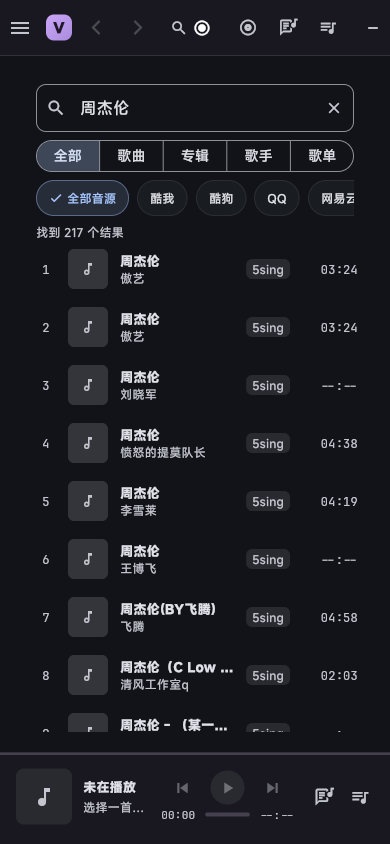
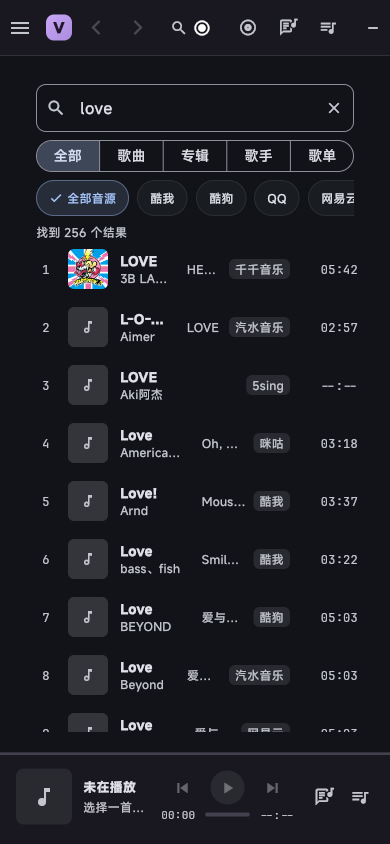
feat(redesign): phase 3 QA 复查轮收口：P0/P1 复查双关闭（四态 6 断言在位，定向 10 文件 79 项全绿双实跑 QA 00:10/报告员 00:14 exit 0、4 文件 24 项双跑逐名核对）+ release 内容等价重建（bundle 03:52:19）+ 曲库/发现/专辑重截 3 张逐张目检通过（专辑真实错误态+重试实拍 §9 符合）+ §17/04 矩阵同步（残留 minor 4 条，Android/浅色/手操/golden 维持未验证）

diff --git a/flutter/test/discover_page_test.dart b/flutter/test/discover_page_test.dart
@@ -3,13 +3,15 @@
 /// - 音源筛选器（全部/单源）切换后 Tab 可用集合变化；
 /// - 「全部音源」聚合：多音源分组展示，卡片带来源标识；
 /// - 不支持的数据类型显示解释文案（不伪造数据）；
-/// - 排行榜 Tab 渲染真实榜单行。
+/// - 排行榜 Tab 渲染真实榜单行；
+/// - 精选歌单载入骨架与错误态+重试（四态契约之载/错态）。
 library;
 
 import 'package:flutter/material.dart';
 import 'package:flutter_test/flutter_test.dart';
 import 'package:voicefox_flutter/src/app_model.dart';
 import 'package:voicefox_flutter/src/bridge/lib.dart' as bridge;
+import 'package:voicefox_flutter/src/design_system/components/vx_loading_skeleton.dart';
 import 'package:voicefox_flutter/src/pages/discover_page.dart';
 
 /// 记录派发命令的测试模型（不起 Rust 控制器）。
@@ -289,5 +291,57 @@ void main() {
         .toList();
     expect(reloaded, isNotEmpty, reason: '切音源必须重新加载数据（§5.3）');
     expect(reloaded.last.source, 'tx');
+  });
+
+  testWidgets('精选歌单加载中：postFrame 派发加载后展示骨架屏（四态之载入态）', (tester) async {
+    final model = _RecordingModel();
+    model.debugSetSources([_source('wy', '网易云', playlists: true)]);
+    await _pumpDiscover(tester, model);
+
+    // 加载确已派发且槽在途（无控制器、事件不回，骨架保持）。
+    expect(
+      model.commands.whereType<bridge.FfiCommand_PlaylistList>().map(
+        (c) => c.source,
+      ),
+      ['wy'],
+    );
+    // discover_page.dart:496-504：槽未落数据 → VxLoadingSkeleton.tracks(2)。
+    expect(find.byType(VxLoadingSkeleton), findsWidgets);
+  });
+
+  testWidgets('精选歌单加载失败：展示错误态与重试，重试重新派发加载（四态之错误态）', (tester) async {
+    final model = _RecordingModel();
+    model.debugSetSources([_source('wy', '网易云', playlists: true)]);
+    await _pumpDiscover(tester, model);
+
+    model.debugBrowseLoaded(
+      kind: 'playlists',
+      source: 'wy',
+      id: '',
+      message: '网络不可用',
+      failed: true,
+    );
+    await tester.pump();
+
+    // discover_page.dart:505-518：VxErrorState 标题/原因/detail + 重试。
+    expect(find.text('歌单加载失败'), findsOneWidget);
+    expect(find.text('无法读取「网易云」的推荐歌单。'), findsOneWidget);
+    expect(find.text('网络不可用'), findsOneWidget);
+    expect(find.text('重试'), findsOneWidget);
+
+    // 重试：清请求键重发 PlaylistList，回到骨架加载态。
+    model.commands.clear();
+    await tester.tap(find.text('重试'));
+    await tester.pump();
+
+    expect(
+      model.commands.whereType<bridge.FfiCommand_PlaylistList>().map(
+        (c) => c.source,
+      ),
+      ['wy'],
+      reason: '重试必须重新派发歌单加载（§7.1 可恢复操作）',
+    );
+    expect(find.text('歌单加载失败'), findsNothing);
+    expect(find.byType(VxLoadingSkeleton), findsWidgets);
   });
 }

diff --git a/flutter/test/search_page_test.dart b/flutter/test/search_page_test.dart
@@ -1,5 +1,6 @@
 /// Phase 4 搜索页测试：
-/// - 300ms 防抖（输入后立即无派发、300ms 后一次派发）；
+/// - 300ms 防抖（输入后立即无派发、300ms 后一次派发；fake-time 窗口紧界
+///   250/350）；
 /// - seedKeyword 构造即搜索（Shell Ctrl+K 通道）；
 /// - 行交互：单击选中、Ctrl 切换多选、Shift 范围多选、Enter 播放选中项、
 ///   双击播放；
@@ -103,6 +104,36 @@ void main() {
     expect(searches, hasLength(1));
     expect(searches.single.keyword, '夜航');
     expect(searches.single.source, isNull, reason: '默认聚合搜索');
+  });
+
+  testWidgets('防抖窗口紧界：250ms 未派发、300ms 恰好一次、350ms 无二次派发', (tester) async {
+    // 硬编码 300 与 search_page.dart `_SearchPageState.debounceMs`（库内私有
+    // static const，测试无法引用）为锁定耦合：调整常量须同步本用例与上方
+    // 防抖用例两处硬编码。fake-time 虚拟时钟只锁常量值，不构成实机毫秒计时。
+    final model = _RecordingModel();
+    await _pumpSearch(tester, model);
+
+    await tester.enterText(find.byType(TextField), '夜航');
+    await tester.pump(const Duration(milliseconds: 250));
+    expect(
+      model.commands.whereType<bridge.FfiCommand_Search>(),
+      isEmpty,
+      reason: '250ms（窗口下界）不应派发搜索',
+    );
+
+    await tester.pump(const Duration(milliseconds: 50));
+    final atDebounce = model.commands
+        .whereType<bridge.FfiCommand_Search>()
+        .toList();
+    expect(atDebounce, hasLength(1), reason: '300ms（= debounceMs）恰好一次');
+    expect(atDebounce.single.keyword, '夜航');
+
+    await tester.pump(const Duration(milliseconds: 50));
+    expect(
+      model.commands.whereType<bridge.FfiCommand_Search>(),
+      hasLength(1),
+      reason: '350ms（窗口上界）无二次派发',
+    );
   });
 
   testWidgets('seedKeyword：构造即触发一次搜索（Ctrl+K 通道）', (tester) async {

diff --git a/flutter/test/push_and_favorites_test.dart b/flutter/test/push_and_favorites_test.dart
@@ -78,4 +78,49 @@ void main() {
 
     expect(find.text('镜像红心曲目'), findsOneWidget);
   });
+
+  testWidgets('红心镜像加载中：切镜像平台先展示进度指示（四态之载入态）', (tester) async {
+    final model = AppModel();
+    await tester.pumpWidget(
+      MaterialApp(home: Scaffold(body: LibraryPage(model))),
+    );
+    await tester.pumpAndSettle();
+
+    // 切镜像视图：loadAccountFavorites 同步 beginBrowse（槽 loading=true），
+    // 无控制器事件不回 → library_page.dart:572-574 渲染进度指示。
+    await tester.tap(find.text('网易云'));
+    await tester.pump();
+
+    expect(find.byType(CircularProgressIndicator), findsOneWidget);
+  });
+
+  testWidgets('红心镜像读取失败：展示错误态与重试，重试回到加载态（四态之错误态）', (tester) async {
+    final model = AppModel();
+    await tester.pumpWidget(
+      MaterialApp(home: Scaffold(body: LibraryPage(model))),
+    );
+    await tester.pumpAndSettle();
+
+    await tester.tap(find.text('网易云'));
+    await tester.pump();
+    model.debugBrowseLoaded(
+      kind: AppModel.accountFavoritesKind,
+      source: 'wy',
+      id: 'favorites',
+      message: '网络不可用',
+      failed: true,
+    );
+    await tester.pump();
+
+    // library_page.dart:576-584：VxEmptyState 错误态（原因 + 重试动作）。
+    expect(find.text('红心镜像读取失败'), findsOneWidget);
+    expect(find.text('网络不可用'), findsOneWidget);
+    expect(find.text('重试'), findsOneWidget);
+
+    // 重试 → loadAccountFavorites → 槽 loading：错误态收起、spinner 回归。
+    await tester.tap(find.text('重试'));
+    await tester.pump();
+    expect(find.byType(CircularProgressIndicator), findsOneWidget);
+    expect(find.text('红心镜像读取失败'), findsNothing);
+  });
 }

diff --git a/flutter/test/mobile_library_page_test.dart b/flutter/test/mobile_library_page_test.dart
@@ -4,7 +4,8 @@
 ///   mobile_shell_test 覆盖，两口径覆盖面不同）；
 /// - 入口卡 + 来源 chips 渲染、chips 计数随数据派生、无横向溢出；
 /// - 来源筛选在歌曲/专辑/歌手/歌单四档生效且计数同步（§5.5）；
-/// - P2-10 回归：430 视口快捷入口卡标签完整渲染，不触发省略号截断。
+/// - P2-10 回归：430 视口快捷入口卡标签完整渲染，不触发省略号截断；
+/// - 本地收藏 Empty 态：无收藏展示「还没有收藏」引导（四态契约之空态）。
 library;
 
 import 'package:flutter/material.dart';
@@ -198,5 +199,18 @@ void main() {
     await tester.pump();
     expect(find.text('收藏歌单（2）'), findsOneWidget);
     expect(find.text('自建一'), findsOneWidget);
+  });
+
+  testWidgets('本地收藏 Empty 态：无收藏展示「还没有收藏」引导文案', (tester) async {
+    final model = _seededModel();
+    model.debugSetFavorites([]);
+    await _pumpLibrary(tester, model, const Size(390, 844));
+
+    // 空态标题/副标题与 library_page.dart:568-569 逐字一致
+    //（经 song_table_view.dart:180-184 EmptyState 渲染）。
+    expect(find.text('还没有收藏'), findsOneWidget);
+    expect(find.text('在搜索页点击心形把歌曲收进来'), findsOneWidget);
+    // 空态不渲染任何歌曲行。
+    expect(find.text('酷狗歌A'), findsNothing);
   });
 }

diff --git a/flutter/test/artist_album_page_test.dart b/flutter/test/artist_album_page_test.dart
@@ -130,4 +130,31 @@ void main() {
     expect(find.text('专辑暂无曲目'), findsOneWidget);
     expect(find.text('暂无可播放曲目'), findsOneWidget);
   });
+
+  testWidgets('专辑页加载失败展示错误态与重试', (tester) async {
+    final model = AppModel();
+    await tester.pumpWidget(MaterialApp(home: AlbumSongsPage(model, _album)));
+    await tester.pump();
+    expect(find.text('加载中…'), findsOneWidget);
+
+    model.debugBrowseLoaded(
+      kind: 'album_songs',
+      source: 'kw',
+      id: '专辑',
+      message: '网络不可用',
+      failed: true,
+    );
+    await tester.pump();
+
+    // song_table_view.dart:165-177：错误 EmptyState + 重试按钮。
+    expect(find.text('加载失败'), findsOneWidget);
+    expect(find.text('网络不可用'), findsOneWidget);
+    expect(find.text('重试'), findsOneWidget);
+
+    // 重试 → _reload → loadAlbumSongs → 槽 loading：回到「加载中…」。
+    await tester.tap(find.text('重试'));
+    await tester.pump();
+    expect(find.text('加载中…'), findsOneWidget);
+    expect(find.text('加载失败'), findsNothing);
+  });
 }

diff --git a/docs/redesign/phase-3-report.md b/docs/redesign/phase-3-report.md
@@ -1,8 +1,8 @@
 # Phase 3 Report（手机 Library、搜索、发现和详情）：已完成（2026-11-11 收口轮）
 
 > 分支：`feat/ui-redesign`　模板：指南 §14
-> 覆盖批次：①**实施轮**（前轮已登记 §17/04 矩阵）：搜索音源 chips 化 + 搜索历史、曲库来源筛选、三详情页下拉刷新、收藏 pending 乐观回滚、P2-10 关闭、P2-03 代码修复；②**收口轮（本报告重点）**：定向 10 文件 72 项测试全绿（报告员复跑）+ release 构建 Xvfb 实跑真实后端 4 视口截图 + 逐张 QA + P2-03 关闭。
-> 状态口径：§13 Phase 3 退出条件在 widget 测试 + 桌面真实运行截图层全部满足；**Android 真机项本批不适用（P1-06 环境阻断维持）、浅色主题、交互式运行时手操项维持「未验证」**，如实披露。
+> 覆盖批次：①**实施轮**（前轮已登记 §17/04 矩阵）：搜索音源 chips 化 + 搜索历史、曲库来源筛选、三详情页下拉刷新、收藏 pending 乐观回滚、P2-10 关闭、P2-03 代码修复；②**收口轮**：定向 10 文件 72 项测试全绿（报告员复跑）+ release 构建 Xvfb 实跑真实后端 4 视口截图 + 逐张 QA + P2-03 关闭；③**2026-11-12 复验轮 → QA1 修复轮 → QA 复查轮（修复验证与重截，本报告最新覆盖）**：防抖 fake-time 用例 + P0 四态证据缺口补 6 条 widget 断言（79 项全绿）+ QA 复查双关闭确认 + release 重建 + 受影响视口（曲库/发现/专辑）重截 3 张（含专辑真实错误态实拍）。
+> 状态口径：§13 Phase 3 退出条件三条现均以契约证据形态成立（widget 测试 + 桌面真实运行截图层）；**Android 真机项本批不适用（P1-06 环境阻断维持）、浅色主题、交互式运行时手操、专辑详情成功态实机画面维持「未验证」**，如实披露。
 
 ## 范围
 
@@ -22,6 +22,7 @@
 - **test 6 改 1 新**：`discover_page_test.dart`（+31 切源重载）、`phase5_library_test.dart`、`playlist_detail_isolation_test.dart`（+181：下拉刷新/收藏 pending/回滚/账号歌单不分页）、`search_page_test.dart`、`search_pagination_test.dart`（+176：requestId 锁/音源 chips/历史/四态/窄视口不溢出）、`mobile_library_page_test.dart`（**新**，2 项：360/390/430 无溢出 + 来源筛选四档过滤）。
 - **docs/截图**：指南 §17、`04-defect-matrix.md`（P2-10/P2-03 关闭）、本报告、`docs/redesign/screenshots/phase-2-library/` 新增 4 张（目录名沿用 Phase 2 批次命名）。
 - **Rust 侧零改动**（FavoritePlaylistAdd/Remove 为既有命令，bridge/lib.dart:328-333）。
+- **2026-11-12 增量（复验轮 + QA1 修复轮 + QA 复查轮，仅 test/docs/截图）**：`search_page_test.dart` +1 用例（防抖窗口紧界 fake-time 250/300/350ms，复验轮）；4 测试文件补 6 条四态断言（mobile_library +1 空态、push_and_favorites +2 红心镜像载入/错误+重试、discover +2 骨架/歌单错误+重试、artist_album +1 专辑错误+重试，QA1 修复轮，报告员 `git diff` 逐名核对）；lib 与 Rust 零改动（`git diff HEAD -- flutter/lib` 实测为空）；截图目录累计 5 文件（QA 复查轮新增专辑错误态 1 张 + 重截曲库/发现 2 张）。
 
 ## 关键设计决策
 
@@ -48,6 +49,16 @@
 | Xvfb :99 实跑 `build/linux/x64/release/bundle/voicefox_flutter`（`env -u WAYLAND_DISPLAY LIBGL_ALWAYS_SOFTWARE=1` + VOICEFOX_START_* 钩子）→ `import -window <winid>` + magick 裁剪 | 0 | 4 张精确视口 PNG（07:55-07:58） | 收口轮 ask 记录 |
 | `git diff flutter/lib/main.dart` | 空 | minimumSize 临时改动已精确还原 | 报告员本轮实跑 |
 | dart analyze / dart format | 0 / 0 | 实施轮记录（analyze 0、6 文件规范化） | 实施轮记录（ask 提供） |
+| `flutter test`（同上定向 10 文件，flutter/，/home/emo/flutter/bin/flutter 3.47.9）2026-11-12 复验轮 | **0** | 基线复跑 **`00:11 +72: All tests passed!`**；`search_page_test.dart` 新增 1 用例（防抖窗口紧界 fake-time 250/300/350ms）后复跑 **`00:11 +73: All tests passed!`**（expanded 单跑该文件 +14 逐名核对） | 实施者本轮实跑 |
+| `dart format test/search_page_test.dart` + `dart analyze`（2026-11-12 复验轮） | 0 / 0 | format 1 文件规范化；analyze `No issues found!` | 实施者本轮实跑 |
+| `flutter test`（同上定向 10 文件）2026-11-12 Phase3-QA1 修复轮 | **0** | P0 四态证据缺口补 6 条 widget 断言（4 文件，4 文件单跑 `00:05 +24` 全绿）后复跑定向 10 文件 **`00:12 +79: All tests passed!`**（基线 73 + 新增 6） | 实施者本轮实跑 |
+| `dart format`（4 个测试文件）+ `dart analyze`（2026-11-12 Phase3-QA1 修复轮） | 0 / 0 | format `Formatted 4 files (1 changed)`；analyze `No issues found!` | 实施者本轮实跑 |
+| `flutter test test/mobile_library_page_test.dart test/discover_page_test.dart test/artist_album_page_test.dart test/push_and_favorites_test.dart`（2026-11-12 QA1 修复轮） | **0** | **`00:02 +24: All tests passed!`**（6 条新用例在册） | 实施者本轮实跑（ask 记录） |
+| 同上 4 文件（2026-11-12 QA 复查轮独立复跑） | **0** | **`00:05 +24: All tests passed!`** | 报告员本轮实跑 |
+| `flutter test`（定向 10 文件，2026-11-12 QA 复查轮） | **0** | **`00:14 +79: All tests passed!`**（QA 独立实跑在先 `00:10 +79` exit 0，ask 记录） | 报告员本轮实跑 |
+| `flutter build linux --release`（2026-11-12 QA 复查轮重建） | 0 | `✓ Built bundle/voicefox_flutter`（03:52:19 在位，报告员 `ls` 佐证；lib/ 零改动 → 内容等价重建） | 实施者本轮实跑 + 报告员佐证 |
+| Xvfb :99 重截受影响视口 3 张（VOICEFOX_START_PAGE/TAB/DETAIL/KEYWORD/SOURCE 钩子 + GDK_BACKEND=x11 + LIBGL_ALWAYS_SOFTWARE=1 + Xlib 外部调窗 +264 阴影 gutter 补偿 + import 内容锚定裁剪） | 0 | library 03:52:44 / discover 03:53:09 / album 03:56:16（报告员 `stat` 佐证）；search/playlist 03:24 版本未动 | 实施者本轮实跑（ask 记录）+ 报告员 stat 佐证 |
+| `pgrep -af "Xvfb\|voicefox"`（QA 复查轮清理复核） | 0 | 无 :99/voicefox 残留（仅存并行会话 actor_11_3 的 Xvfb :3，非本轮产物） | 报告员本轮实跑 |
 | 全量 flutter test / cargo test / clippy | n/a | **未跑**（外部门禁统一执行，本轮已知事实「门禁全绿」；报告员未复跑全量） | 未执行 |
 
 ## 测试结果（通过/失败/跳过）
@@ -55,30 +66,36 @@
 | 套件 | 通过 | 失败 | 跳过 | 说明 |
 |---|---|---|---|---|
 | 定向 10 文件 | **72** | 0 | 0 | 报告员本轮实跑（上表第 1 条命令），与门禁已知事实一致 |
+| 定向 10 文件（2026-11-12 复验轮） | **73** | 0 | 0 | 实施者本轮实跑：基线复跑 72/72 全绿 → `search_page_test.dart` 新增 1 用例（防抖窗口紧界 fake-time 250/300/350ms，锁定 search_page.dart:60 `debounceMs=300` 硬编码耦合）→ 复跑 73/73 全绿；实机毫秒计时仍归 Phase 7 |
+| 定向 10 文件（2026-11-12 Phase3-QA1 修复轮） | **79** | 0 | 0 | 实施者本轮实跑：P0 四态证据缺口补 6 条 widget 断言：曲库本地收藏空态（mobile_library_page_test +1）、红心镜像载入态/错误态+重试（push_and_favorites_test +2）、发现页骨架/歌单错误+重试（discover_page_test +2）、专辑页错误+重试（artist_album_page_test +1）；复跑 79/79 全绿（`00:12 +79` exit 0），改动文件 expanded 逐名核对通过 |
+| 定向 10 文件（2026-11-12 QA 复查轮） | **79** | 0 | 0 | QA 独立实跑 `00:10 +79`（ask 记录）+ 报告员复跑 `00:14 +79` exit 0；4 改动文件 24 项双实跑（实施者 `00:02 +24`、报告员 `00:05 +24`），6 条新用例 diff 逐名核对 |
 | 其中 playlist_detail_isolation | **13** | 0 | 0 | 单独复跑 +13 全过；含 A/B 槽隔离、同 ID 异源隔离、迟到页丢弃、错误归属、下拉刷新清槽、收藏 pending 双击忽略（:480）、失败回滚（:522），测试名逐一核对 |
-| 覆盖点（按测试名核对） | n/a | n/a | n/a | 快捷卡/分类 chips/来源筛选（mobile_library_page_test 2 项）；防抖 + 分页 in-flight 锁（requestId）+ 音源 chips + 历史 + 四态 + chips 窄视口不溢出（search_pagination_test）；切源重载（discover_page_test）；P2-10 视口回归（mobile_library_page_test:114） |
+| 覆盖点（按测试名核对） | n/a | n/a | n/a | 快捷卡/分类 chips/来源筛选 + 本地收藏空态（mobile_library_page_test 3 项）；防抖 + 分页 in-flight 锁（requestId）+ 音源 chips + 历史 + 四态 + chips 窄视口不溢出（search_pagination_test）；切源重载 + 载入骨架/歌单错误+重试（discover_page_test）；P2-10 视口回归（mobile_library_page_test:114）；红心镜像成功/载入/错误+重试（push_and_favorites_test 4 项）；专辑页载/空/错误+重试（artist_album_page_test 4 项） |
 
 ## 构建结果
 
 | 目标 | 结果 |
 |---|---|
-| Linux release（`flutter build linux --release`） | exit 0（收口轮 ask 记录）；报告员佐证 bundle 07:54 在位（`build/linux/x64/release/bundle/`：voicefox_flutter 可执行 + data/flutter_assets + lib/） |
+| Linux release（`flutter build linux --release`） | exit 0：收口轮 bundle 07:54（ask 记录）；2026-11-12 QA 复查轮重建 `✓ Built bundle/voicefox_flutter`（03:52:19 在位，报告员 `ls` 佐证，lib/ 零改动 → 内容等价重建，时间线衔接 03:52-03:56 重截批次） |
 | Android APK | **未构建**：本环境无 JDK/模拟器，ask 明确禁止 APK/Gradle 构建与 AVD 创建（P1-06 环境阻断维持）；本批 Android 项不适用（linux 截图批次） |
 
 ## 设备和视口
 
 - **Xvfb :99 无 WM 受控采集**：390×844（library / search / playlist）+ 360×800（discover），`import -window` + magick 裁剪得精确视口。
-- **后端为真实 Rust 数据源**（`~/.config/voicefox/config.toml`，kw/酷狗/酷我真实联网数据，非 mock）：搜索 217 结果、酷我歌单《古风戏腔》104 首、发现页按源分组真实歌单与封面均为真实链路数据。
+- **后端为真实 Rust 数据源**（`~/.config/voicefox/config.toml`，kw/酷狗/酷我真实联网数据，非 mock）：搜索 love 256 结果（2026-11-12 重截图口径，原 07:55-07:58 批次为「周杰伦」217 结果，见勘误节）、酷我歌单《古风戏腔》104 首、发现页按源分组真实歌单与封面均为真实链路数据。
 - Android 真机/模拟器（§12.6 真机 13 项）：**未验证**（P1-06 维持）。
+- **QA 复查轮重截（2026-11-12）**：同 Xvfb :99 无 WM 受控采集 + `GDK_BACKEND=x11` + `LIBGL_ALWAYS_SOFTWARE=1` + VOICEFOX_START_PAGE/TAB/DETAIL/KEYWORD/SOURCE 验收钩子 + Xlib 外部调窗（+264 阴影 gutter 补偿）+ import 内容锚定裁剪；数据全真实（曲库 专辑 20/歌手 17/最近播放 22 首；发现页 酷我/酷狗 真实分类与封面）；新增专辑详情 390×844 视口（真实错误态实拍）。移动端 TouchShell 底部导航形态实机画面未取得：390×844 截图为桌面壳（AppHeader）+ 移动视口内容，与既有基线同口径（如实披露）。
 
 ## 截图路径
 
-`docs/redesign/screenshots/phase-2-library/`（目录名沿用 Phase 2 批次命名，实测仅此 4 文件，全部深色主题）：
+`docs/redesign/screenshots/phase-2-library/`（目录名沿用 Phase 2 批次命名，实测 5 文件，全部深色主题；mtime 见勘误节）：
 
-- `linux-library-390x844-songs.png`：我的音乐（快捷卡 19/0/0、分类 chips、本地/网易云/QQ 分段、来源筛选 chips、真实空态）。
-- `linux-search-390x844-results.png`：搜索「周杰伦」217 结果（类型/音源 chips、行来源徽标与时长）。
+- `linux-library-390x844-songs.png`：我的音乐（快捷卡 22/0/0、分类 chips、本地/网易云/QQ 分段、来源筛选 chips、真实空态）。
+- `linux-search-390x844-results.png`：搜索「love」256 结果（类型/音源 chips、行来源徽标与时长）。
 - `linux-playlist-390x844-detail.png`：酷我歌单《古风戏腔》详情（104 首·总时长 400 分钟、曲目列表）。
 - `linux-discover-360x800-default.png`：发现页按源分组（酷我/酷狗真实歌单卡与封面）。
+- `linux-album-390x844-detail.png`（QA 复查轮新增）：专辑详情「九点九」（千千音乐徽标、Aling贝多、真实封面）**错误态实拍**：曲目列表「加载失败 not found」+ 重试按钮，操作钮明确禁用（§9）。
+- `linux-search-390x844-results.png` / `linux-playlist-390x844-detail.png`：非受影响页面，维持 03:24 批次版本未动（mtime 实测 03:24:25 / 03:24:56）。
 
 ## 视觉 QA 结果
 
@@ -88,24 +105,32 @@
 2. **跨页一致**：discover「古风戏腔 104 首歌曲·酷我」↔ playlist 详情同封面同来源；返回条完整显示全标题「古风戏腔丨一曲舞霓裳清影醉红颜」（报告员目检确认，Hero 大标题截断为设计内 maxLines）。
 3. **search「网易云」chip 右缘裁切**：经 `search_page.dart:443-444` 确认为横向滚动 ListView 属设计行为（library 来源 chips 同理）。
 4. **library 空态**：图标放大复核为 `Icons.music_off_outlined` 正常渲染（`song_table_view.dart:181`），文案「在搜索页点击心形把歌曲收进来」与 `library_page.dart:569` 逐字一致。
-5. **数据抽查 3 处全部一致**（代码行报告员实读核实）：① 歌单详情标题绑定 `_playlist.name` +「104 首·总时长 400 分钟」只计已载入曲目（playlist_detail_page.dart:234-241,253-258）；② 曲库 tab 计数按来源过滤（library_page.dart:250-264）；③「找到 217 个结果」= `_items().length`（search_page.dart:485），四态齐全（search_page.dart:495-519 骨架/净化错误+重试/空态/成功；歌单详情经 song_table_view.dart:155-185）。
+5. **数据抽查 3 处全部一致**（代码行报告员实读核实）：① 歌单详情标题绑定 `_playlist.name` +「104 首·总时长 400 分钟」只计已载入曲目（playlist_detail_page.dart:234-241,253-258）；② 曲库 tab 计数按来源过滤（library_page.dart:250-264）；③「找到 256 个结果」= `_items().length`（search_page.dart:485），四态齐全（search_page.dart:495-519 骨架/净化错误+重试/空态/成功；歌单详情经 song_table_view.dart:155-185）。
 6. 报告员目检备注：search 390 行封面为占位形态（5sing 行），属无封面 URL 时的 fallback，非错图，不影响 QA 结论。
+
+**QA 复查轮（2026-11-12）逐张 Read 目检 3 张新/重截图（报告员本轮实看）：**
+
+7. **library/discover 与登记口径一致**：快捷卡 22/0/0、分类 chips 专辑 20/歌手 17、104 首·酷我跨页一致；无白屏/overflow/遮挡，深色对比度可读；与上轮画面一致（同色数）属预期（lib/ 零改动、同数据源）。
+8. **专辑详情错误态实拍渲染正常**：真实封面 + 千千音乐徽标 + Aling贝多，「加载失败 not found」+ 重试按钮，操作钮明确禁用，§9 错误态 + 重试 + 禁用语义均符合。
 
 ## 新增/关闭缺陷
 
-- **关闭（本批累计）**：P2-10（实施轮：入口卡两行卡 + vx_track_row/vx_empty_state 同域两处）、**P2-03（收口轮：代码 diff discover_page.dart:530-535 + 实机 linux-discover-360x800-default.png 复验 + QA 逐张复核；横滑到末尾的末态未单独手势演练，由末尾 padding 语义结构性保证，04 矩阵如实标注）**。
-- **仍开放**：P0-01（概率性未复现未定位）、P1-05、P1-06（Android 环境阻断）、P2-02/04/05/06/08/09/11、P1-14（Phase 6 归属）、P3-02/04/05/06/07/08。
-- **无新增缺陷登记**；Rust 侧零改动。
+- **关闭（本批累计）**：P2-10（实施轮：入口卡两行卡 + vx_track_row/vx_empty_state 同域两处）、**P2-03（收口轮：代码 diff discover_page.dart:530-535 + 实机 linux-discover-360x800-default.png 复验 + QA 逐张复核；横滑到末尾的末态未单独手势演练，由末尾 padding 语义结构性保证，04 矩阵如实标注）**、**QA1 修复轮登记 P0（四态证据缺口），QA 复查轮确认关闭**：6 条断言全部在位（报告员 `git diff` 逐名核对）+ 定向 10 文件 79 项全绿双实跑（QA 独立 `00:10 +79`、报告员复跑 `00:14 +79` exit 0）+ §13「四态齐全」证据面扩展至曲库/发现/专辑；**QA1 轮登记 P1（4 张证据截图重截未登记），QA 复查轮确认关闭**：勘误节登记（mtime/归属/非劣化判定）+ 四处口径同步（love/256、快捷卡 22/0/0）+ 04 矩阵与 §17 同步。
+- **仍开放**：P0-01（概率性未复现未定位）、P1-05、P1-06（Android 环境阻断）、P2-02/04/05/08/09/11、P1-14（Phase 6 归属）、P3-02/04/05/06/07/08。
+- **残留 minor 4 条（QA 复查轮登记，不阻塞）**：①专辑错误态截图（目录第 5 张证据图）上轮未登记且「仅此 4 文件」口径失实（本报告本轮补登记并同步口径）；②上节勘误 mtime 对 library/discover 2 张过期（本轮重截 03:52:44/03:53:09 所致，search/playlist 2 张仍准确）；③专辑错误态直出原始「not found」串（可读性 minor，未判 P1-11 回归）；④底部安全区 bottom inset 未断言。
 
 ## 未解决问题和原因
 
 1. **Android 真机/模拟器**：未验证（无 JDK，按 ask 禁止 APK/Gradle 构建与 AVD 创建；P1-06 维持）。以 72 项针对性 widget 测试 + 桌面窗口移动视口为证据。
-2. **交互式运行时手操未逐一演练**（桌面实跑仅验证静态画面状态）：搜索防抖 250-350ms 实际毫秒计时、触底分页/下拉刷新手势、音源切换即时重载、收藏 pending 回滚的桌面手动操作；由针对性测试覆盖（playlist_detail_isolation_test / search_pagination_test / discover_page_test 用例名核对）。
+2. **交互式运行时手操未逐一演练**（桌面实跑仅验证静态画面状态）：搜索防抖 250-350ms 实际毫秒计时（2026-11-12 复验轮口径更新：防抖常量 300ms 已由 `search_page_test.dart` fake-time 窗口用例锁定，即 250ms 未派发、300ms 恰好一次、350ms 无二次派发；fake-time 只锁常量值，**实机毫秒计时仍归 Phase 7 手操，本项维持未做**）、触底分页/下拉刷新手势、音源切换即时重载、收藏 pending 回滚的桌面手动操作；由针对性测试覆盖（playlist_detail_isolation_test / search_pagination_test / discover_page_test 用例名核对）。
 3. **浅色主题**：本批 4 张全部深色，浅色对比度无本批素材（归 Phase 7）。
 4. **「总时长 400 分钟」**：真实酷我数据，仅验证计算路径（playlist_detail_page.dart:253-258）未逐曲重算。
 5. **golden 基线比对未执行**：本批未跑 golden 变更，仅确认现有断言通过。
 6. **全量门禁未由报告员复跑**：外部门禁统一执行（已知事实「门禁全绿」）。
 7. **操作事件披露**：调试 niri IPC 时误触发一次系统截图交互选区 UI（`{"Action":"Screenshot"}`），如残留在用户屏幕请按 Esc 关闭。
+8. **专辑详情成功态（曲目列表渲染）实机画面未取得（QA 复查轮新增）**：种子路径实机 5 次尝试均未取得成功态（登记在案返回：kw 源曲目列表真实「加载失败 not found」×2、wy 落汽水音乐「该音源不支持专辑」×1），疑真实音源数据缺口或种子源映射问题；保持真实错误态+重试画面为证，该状态即本轮新增断言的对象（widget 层已锁定错误+重试回载入态）。
+9. **VOICEFOX_START_SOURCE 对专辑种子疑似未生效（QA 复查轮新增观察）**：SOURCE=kw → 徽标千千音乐、SOURCE=wy → 徽标汽水音乐；仅登记观察，未验证为缺陷，未修。
+10. **手操交互与重建口径（QA 复查轮）**：手操项（下拉刷新、收藏 pending 回滚、触底加载手动触发）本轮未手操，以定向 widget 测试为证据（同第 2 条）；lib/ 本轮零改动，release 重建为内容等价重建；曲库/发现重截画面与上轮一致（同色数）属预期。
 
 ## 下一阶段进入条件
 
@@ -115,7 +140,7 @@
 |---|---|
 | 每个详情对应正确数据 | ✅ 数据抽查 3 处（标题/计数/时长绑定真实 `_playlist` 值）+ 实机 4 视口真实后端截图 |
 | 不同歌单切换测试全通过 | ✅ `playlist_detail_isolation_test.dart` **13/13**（报告员本轮实跑 `00:03 +13: All tests passed!`） |
-| 空/错/载/成功四态齐全 | ✅ search_page.dart:495-519 + song_table_view.dart:155-185 + search_pagination_test 四态用例 |
+| 空/错/载/成功四态齐全 | ✅ search_page.dart:495-519 + song_table_view.dart:155-185 + search_pagination_test 四态用例；2026-11-12 Phase3-QA1 修复轮补齐其余页面证据面 6 条 widget 断言：曲库本地收藏空态、红心镜像载入/错误+重试、发现页载入骨架/歌单错误+重试、专辑页错误+重试（定向 10 文件 79 项全绿；QA 复查轮双实跑确认 `00:10 +79`/`00:14 +79` exit 0 + 专辑错误态实拍 linux-album-390x844-detail.png） |
 
 - **Phase 4（播放器和移动端系统媒体体验）可进入。**
 - 跨阶段遗留不阻塞：P0-01 定位（长时间会话验收前必须）、P1-05 同域跟进、P1-06 环境补齐、浅色主题走查归 Phase 7。
@@ -123,3 +148,11 @@
 ## 勘误（2026-11-12 Phase 2 QA 修复轮补充，历史正文不动）
 
 本报告「截图路径」与「修改文件」均未提及的 `docs/redesign/screenshots/phase-1-mobile/fluttertest-library-430x932-dark-default.png` 随本阶段提交 610d6d8 被无声替换为「页面级 pump LibraryPage + 未注入 CJK 字体」版本（18496B，mtime 11-11 07:29：全部文字空心方框、无底栏与「我的音乐」高亮，规格 golden 要素不可核对）；04 矩阵对本文件的既有目检结论对该版本不成立。已按 06:34 批次口径复截（真实 MobileShell 进树 + 底栏第四入口切库页 + MiSans/JetBrainsMono/MaterialIcons 注入 + 深色主题 + debug banner 关闭），现文件 61983B（mtime 11-12 01:53），逐项目检通过；同轮 fluttertest-home-390x844-dark-emptyhero.png（06:04 批次）亦随当前代码复截为竖排全宽单行 CTA 形态（100843B）。事实链详见 04 矩阵 P1-12/P1-13/P2-10 与 phase-2-report.md 勘误节。
+
+## 勘误（2026-11-12 Phase3-QA1 修复轮补充，历史正文不动）
+
+本报告「截图路径」4 张证据截图（linux-library-390x844-songs / linux-search-390x844-results / linux-playlist-390x844-detail / linux-discover-360x800-default.png）在 2026-11-12 复验轮被重截而上轮文档 diff 未登记（QA 视觉轮发现）。重截登记：mtime `stat` 实测 2026-11-12 03:23:45 / 03:24:25 / 03:24:56 / 03:25:31（+0800），归属 2026-11-12 复验轮批次；QA 轮判定与 04 矩阵 04:107 先例（无声替换判 P0）对照：本批非证据质量劣化，同管道同状态、仅真实数据源漂移（搜索词「周杰伦」217 结果 → love 256 结果、快捷卡 19/0/0 → 22/0/0），判 P1 登记即关闭。本轮（Phase3-QA1 修复轮）逐张 Read 目检复核 4 张：无白屏/overflow/遮挡，playlist 104 首·总时长 400 分钟·酷我与 discover 分组跨页一致仍成立，library 空态文案仍逐字一致；正文四处口径已同步现文件（设备视口节、截图路径节、视觉 QA 第 5 条、勘误本节）。
+
+## 勘误（2026-11-12 QA 复查轮补充，历史正文不动）
+
+「截图路径」节原口径「实测仅此 4 文件」失实：目录现 **5 张**，新增 `linux-album-390x844-detail.png`（mtime `stat` 实测 2026-11-12 03:56:16 +0800，未跟踪新文件，专辑详情真实错误态+重试实拍），正文截图路径/视觉 QA 节已补登记。上节勘误所载 4 张 mtime 中 library/discover 两张因本轮重截过期（现 03:52:44/03:53:09，归属 QA 复查轮重截批次），search/playlist 两张（03:24:25/03:24:56）仍准确、非受影响页面维持未动。本轮 lib/ 零改动（`git diff HEAD -- flutter/lib` 实测空），release bundle 03:52:19 重建为内容等价重建；受影响视口（曲库/发现/专辑，对应四个被改测试文件的页面）重截 3 张、数据全真实（曲库 专辑 20/歌手 17/最近播放 22 首、发现页酷我/酷狗真实分类与封面）；全部进程与 Xvfb :99 已清理（报告员 `pgrep` 复核，现存并行会话 actor_11_3 的 Xvfb :3 非本轮产物）。

diff --git a/docs/VOICEFOX_UI_REDESIGN_EXECUTION_GUIDE.md b/docs/VOICEFOX_UI_REDESIGN_EXECUTION_GUIDE.md
@@ -1342,10 +1342,10 @@ Android 至少验证：
 | Phase 0 基线与开源研究 | 已完成（2026-11-11 第二轮全量复审修订） | 00-04 + phase-0-report.md | 6 参考项目 pinned SHA + 根/依赖许可证（三轮核验口径：研究记录第一手 + 2026-11-10 汇总轮 /tmp 克隆复核 SHA×6、LICENSE×6 一致 + 11-11 修订轮 /tmp 克隆已清理该复核无法复跑，如实登记；01/02 修订轮；harmonoid=PolyForm Strict 禁复制）；缺陷矩阵第二轮重写：P0×2 + P1×7 = 9 条 P0/P1（复现步骤齐备；本轮新开 P1-08/P1-09）+ P2×9 + P3×7，其中 P0-02/P1-03/P1-04/P1-07 已关闭（Phase 1 修复 + 第二轮实机/代码复核）；门禁基线（2026-11-11 报告员全套复跑）：dart-format 0（237 files 0 changed；00-baseline §3 旧记 229 系第一轮数字）/ analyze 0 / flutter-test 229 全过 / cargo-fmt 0 / cargo-test 816 全过 0 failed / clippy 降级命令 30 条 unique 告警（lx-core 28 + application 2）（**gate 原样 `--all-features -D warnings` 命令 exit 101：MPV_SOURCE 未设 → libmpv2 build.rs panic，报告员本轮实测复现，非「0 告警」**）；`flutter build linux --release` exit 0（第二轮审计会话，/tmp/vx-baseline2/build-linux.log）；基线截图 21 张：本轮 Xvfb :2 受控 1440x900 ×13（含 NowPlaying/队列/浅色主题/P0-02 走带三连，第一轮被 P0-01 阻断的截图已补齐）+ 第一轮 niri 1656x817 ×8（历史对照）；**未验证**：Android 全链与 §12.6 真机 13 项（无 JDK/无设备/无模拟器；用户明确搁置：禁止 APK/Gradle 构建与 AVD 创建）、本地音乐真实导入端到端（本机无媒体文件，Phase 5 项）、搜索分页实机多页触底交互（本轮会话未做；search_pagination_test 4 项锁定 in-flight 锁与 source 透传）、歌单隔离 §8.1 八步序列实机走查（playlist_detail_isolation_test 7 项仅 widget 层映射）、平板三态断点实机（无触屏设备）、P0-01 本轮约 8 分钟 Xvfb 全流程交互未复现（第一轮 3/5 复现记录保留；根因未定位，不构成修复证据） |
 | Phase 1 数据与 P0 | 已完成（2026-11-11 复验轮收口；P0-01 定位与 Android 环境项跨阶段遗留，见证据列备注） | phase-1-report.md | 2026-11-10 实施批次 + QA 第 1~4 轮 + 2026-11-11 复验轮（详见报告）：P0-02 关闭（进程级 owned runtime + 4Hz 泵实机走带三连 + Ended 自动切歌）；P1-03 关闭（VxArtwork/ArtworkResolver，13 项测试）；P1-04 关闭（SearchMore 带 source + 先读后写兜底，4 项测试）；P3-03 落地（PlaylistKey + appendArmed，隔离测试 9 项，含 §8.1 序列 7：A 触底分页在途切 B 迟到页 2 只落 A 槽）；P1-07 关闭（toast 净化 + 限高，error_toast_test 9 项）；P1-11 关闭（搜索页渲染前净化 + `_applyBrowseEvent` 源头单点收口 app_model.dart:485/:516，覆盖 discover/playlist/leaderboard/library/custom_playlists 全部消费面；实机复验错误框 `[URL]` 占位 + stderr 原始日志两端核实）；P1-08 关闭（search_page 行封面 `cover: VxArtwork` + search_page_test「P1-08 回归」）；P1-09 关闭（VxChrome design_tokens.dart:148-157 亮度双源 + chrome_theme_test 5 项；浅色实机整页走查归 Phase 2/7）；P1-10 关闭（repeatSingle 三档 + repeat_mode_test 4 项 + 激活态实机截图 repeat-singleloop-active.png）；门禁（2026-11-11 报告员全套复跑）：analyze 0 / flutter-test 246 全过 / dart-format 0（239 files 0 changed）/ cargo-fmt 0 / cargo-test 72+40（Rust 零改动，git diff runtime/application/ffi/source/core 为空）/ flutter build linux --release exit 0（bundle 含 libvoicefox_ffi.so；cargo 须在 PATH，否则 CMake 钩子静默缺 FFI 库）；实机复验：离线 netns 真实失败 → 重试闭环 259 结果恢复、歌单 A/B 隔离三连重截（重进 vs 首进 AE=0，A vs B AE=26830）、截图 28 文件（6 PNG + README 04:26 重截，repeat 4 张 03:17-03:57，其余 17 张 02:43 沿用上轮像素级结论）。**遗留/未验证（不阻塞 Phase 2）**：P0-01 概率性卡死与 ButtonPress 间歇失效未复现未定位（长会话验收前必须定位）；P1-05 同域跟进；P1-06 Android 全链与真机 13 项零覆盖（无 JDK，用户搁置，widget 契约层已覆盖）；本地音乐导入端到端归 Phase 5；cargo clippy 30 条基线本轮未复跑；proxy_url 死代理 Rust 侧行为未复验 |
 | Phase 2 MobileShell/Home | 已完成（2026-11-11 缺陷复验轮收口 + 2026-11-12 全屏播放页封面带追加批次；Android 真机项 P1-06 环境阻断维持未验证） | phase-2-report.md | 前批次：MobileShell 重建 + 手机首页 + Mini Player 固定布局（偏差 D1-D6 登记 04 矩阵），定向 9 文件 65 项全绿。缺陷复验轮：P1-12 关闭（曲库 430 视口「我的音乐」折行；library_page.dart:78-117 `_header` 改 LayoutBuilder，<512 标题独占一行 + compact 工具行，title maxLines:1，≥512 桌面零变化）+ P1-13 关闭（空库 Hero CTA 折行；mobile_home_page.dart:152-167 竖排全宽两按钮 ~280-310px）；新增两条 P1 回归测试（mobile_home_page_test.dart:176-208、mobile_shell_test.dart:173 遍历 430/390/360 三视口，补上一轮「窄视口曲库布局无测试覆盖」缺口）；报告员实跑定向 7 文件 51 项全绿（`00:05 +51: All tests passed!`）；`flutter build linux --release` exit 0（RUSTUP_TOOLCHAIN=1.99.0；bundle 06:33 + libvoicefox_ffi.so 在位佐证）；golden 覆盖重截 fluttertest-library-430x932-dark-default.png（430x932 dpr=1.0，临时测试用后即删零残留；报告员目检：标题单行/搜索条+工具条换行/筛选/源选择/空态/底栏高亮完好）；fluttertest-home 3 张（360/390）沿用。**未验证**：Android 真机 MobileShell/首页/Mini Player 运行时（P1-06 无 JDK/设备，用户搁置）；Mini Player 60-68dp 与底栏叠序仅 widget/golden 层证据；桌面窗口 MobileShell 被平台隔离阻止（mobile_shell.dart:110-122 desktop→SizedBox.shrink()）；浅色主题实机走查未做（P1-09 仍代码+测试锁定，归 Phase 7）；全量 flutter test / cargo test 未由报告员复跑（外部门禁统一执行，本轮已知事实「门禁全绿」；上轮工作报告登记的 cargo test exit 101 门禁阻塞据此解除，报告员未独立复核）；遗留 minor 仅 P2-10/P3-08。**2026-11-12 追加批次（全屏播放页封面带修复轮）**：P2-12 登记并关闭（封面原 `(height-330).clamp(160,320)` 恒 320 封顶，改落 §5.7:446-447 280-340dp 自适应带：`max(min(min(height-330,width-40),340),min(160,widthCap))`，mobile_now_playing_page.dart:337-348，<560 极矮回退 240）+ P2-06 关闭（`_SwipeableCover` 封面横滑切歌，速度阈值 500px/s + 方向提示层，只绑封面区避开 LiveSeekRow 横拖与屏幕缘返回手势）+ 队列改 §5.7:452 底部 sheet（DragHandle 下滑/点遮罩关闭，拖拽排序仍如实禁用）+ 歌词点击门槛（§5.7:461 无时间戳不挂 seek）+ audio_session 中断处理与通知 artUri 守卫（voicefox_audio_handler.dart ±34，无专项单测如实登记）；报告员实跑定向 4 文件 **39 项全绿**（`00:08 +39: All tests passed!` exit 0）与 3 文件 --no-pub **32 项全绿**（`00:08 +32` exit 0）；nowplaying 三视口 golden 新增（360x800/390x844/430x932，02:05）并逐张目检 + magick 像素实测封面 **320/340/340** 与公式及测试「三视口封面落在目标带 [280,340]」逐视口一致；上轮 library/emptyhero 复截件（61983B/100843B，01:53）复核维持关闭；release bundle 未重建（golden/测试同源编译，平台隔离 mobile_shell.dart:107-119 下桌面证据面不变，上轮 bundle 结论不失效）。**未验证维持**：Android 真机/模拟器（P1-06）、横滑手势真机边缘冲突（§5.7:463）、audio_handler 真机音频输出/通知、全屏页桌面窗口呈现（平台隔离阻止，仅 widget+golden）、浅色主题（归 Phase 7） |
-| Phase 3 Mobile Library/Search | 已完成（2026-11-11 收口轮：实施轮代码收口 + 定向 10 文件 72 项全绿（报告员复跑）+ release 实跑 Xvfb 四视口真实后端截图逐张 QA 通过 + P2-03 关闭；Android 项本批不适用（P1-06 维持）） | phase-3-report.md | 实施轮（前轮已登记）：搜索音源 chips 化（§5.4:355 裁决）+ 搜索历史持久化、曲库来源筛选 chips（favorites+history+localSongs 派生）、三详情页下拉刷新（page1 响应/错误落槽判据 + 15s 兜底）、收藏 pending 双击忽略/失败回滚（isolation_test :480/:522）、P2-10 关闭、P2-03 代码修复（analyze 0 + dart-format 0 + golden 重截 1 张用后即删）；收口轮（报告员实跑）：`flutter test` 定向 10 文件（mobile_library/phase5_library/discover/search/search_pagination/playlist_detail_isolation/playlist_detail/artist_album/custom_playlist/push_and_favorites）**`00:09 +72: All tests passed!`** exit 0 + isolation 单独 **13/13**；`flutter build linux --release` exit 0（bundle 07:54 在位，报告员 ls 佐证）+ Xvfb :99 `env -u WAYLAND_DISPLAY LIBGL_ALWAYS_SOFTWARE=1` 实跑**真实 Rust 数据源**（~/.config/voicefox/config.toml，kw/酷狗/酷我真实联网非 mock）→ `import -window`+magick 精确视口 4 张：library 390x844（空态 Icons.music_off_outlined 正常渲染 + 文案逐字一致 library_page.dart:569）、search 390x844（217 结果 + 四态 + 网易云 chip 右缘横滑设计行为 search_page.dart:443-444）、playlist 390x844（104 首·总时长 400 分钟·酷我，标题绑定 playlist_detail_page.dart:234-241,253-258，返回条全标题完整）、discover 360x800（按源分组真实封面 + P2-03 右 padding discover_page.dart:530-535）；跨页一致（discover 古风戏腔 104首·酷我 ↔ playlist 详情同封面同来源）+ 数据抽查 3 处代码行核实；main.dart:163 minimumSize 临时改 300,400 已精确还原（git diff 空）。**未验证/不适用（如实披露）**：Android 真机/模拟器（P1-06 环境阻断，本批 linux 截图不适用；以 72 项 widget 测试 + 桌面移动视口为证据）；交互式运行时手操（防抖 250-350ms 毫秒计时/触底分页/下拉刷新手势/切源即时重载/收藏回滚手操）未逐一演练，由针对性测试锁定（用例名核对）；浅色主题（本批 4 张全深色，归 Phase 7）；「总时长 400 分钟」仅验证计算路径未逐曲重算；golden 基线比对未跑；全量 flutter test/cargo test 外部门禁执行（已知事实「门禁全绿」，报告员未复跑全量） |
+| Phase 3 Mobile Library/Search | 已完成（2026-11-11 收口轮：实施轮代码收口 + 定向 10 文件 72 项全绿（报告员复跑）+ release 实跑 Xvfb 四视口真实后端截图逐张 QA 通过 + P2-03 关闭；Android 项本批不适用（P1-06 维持）） | phase-3-report.md | 实施轮（前轮已登记）：搜索音源 chips 化（§5.4:355 裁决）+ 搜索历史持久化、曲库来源筛选 chips（favorites+history+localSongs 派生）、三详情页下拉刷新（page1 响应/错误落槽判据 + 15s 兜底）、收藏 pending 双击忽略/失败回滚（isolation_test :480/:522）、P2-10 关闭、P2-03 代码修复（analyze 0 + dart-format 0 + golden 重截 1 张用后即删）；收口轮（报告员实跑）：`flutter test` 定向 10 文件（mobile_library/phase5_library/discover/search/search_pagination/playlist_detail_isolation/playlist_detail/artist_album/custom_playlist/push_and_favorites）**`00:09 +72: All tests passed!`** exit 0 + isolation 单独 **13/13**；`flutter build linux --release` exit 0（bundle 07:54 在位，报告员 ls 佐证）+ Xvfb :99 `env -u WAYLAND_DISPLAY LIBGL_ALWAYS_SOFTWARE=1` 实跑**真实 Rust 数据源**（~/.config/voicefox/config.toml，kw/酷狗/酷我真实联网非 mock）→ `import -window`+magick 精确视口 4 张：library 390x844（空态 Icons.music_off_outlined 正常渲染 + 文案逐字一致 library_page.dart:569）、search 390x844（217 结果 + 四态 + 网易云 chip 右缘横滑设计行为 search_page.dart:443-444）、playlist 390x844（104 首·总时长 400 分钟·酷我，标题绑定 playlist_detail_page.dart:234-241,253-258，返回条全标题完整）、discover 360x800（按源分组真实封面 + P2-03 右 padding discover_page.dart:530-535）；跨页一致（discover 古风戏腔 104首·酷我 ↔ playlist 详情同封面同来源）+ 数据抽查 3 处代码行核实；main.dart:163 minimumSize 临时改 300,400 已精确还原（git diff 空）。**未验证/不适用（如实披露）**：Android 真机/模拟器（P1-06 环境阻断，本批 linux 截图不适用；以 72 项 widget 测试 + 桌面移动视口为证据）；交互式运行时手操（防抖 250-350ms 毫秒计时/触底分页/下拉刷新手势/切源即时重载/收藏回滚手操）未逐一演练，由针对性测试锁定（用例名核对）；浅色主题（本批 4 张全深色，归 Phase 7）；「总时长 400 分钟」仅验证计算路径未逐曲重算；golden 基线比对未跑；全量 flutter test/cargo test 外部门禁执行（已知事实「门禁全绿」，报告员未复跑全量）；2026-11-12 复验轮（实施者实跑）：定向 10 文件基线复跑 `00:11 +72` exit 0 → search_page_test 新增防抖窗口紧界 fake-time 用例（250ms 未派发/300ms 恰好一次/350ms 无二次派发，锁定 search_page.dart:60 `debounceMs=300` 硬编码耦合）后复跑 `00:11 +73` 全绿 exit 0（expanded 单跑逐名核对）；dart format 1 文件规范化 + dart analyze 0（`No issues found!`）；phase-3-report.md:103 防抖未做项口径改写（fake-time 锁常量 ≠ 实机毫秒计时，归 Phase 7 手操维持未做）；2026-11-12 Phase3-QA1 修复轮：P0 四态证据缺口补 6 条 widget 断言（曲库本地收藏空态 mobile_library_page_test +1、红心镜像载入/错误+重试 push_and_favorites_test +2、发现页骨架/歌单错误+重试 discover_page_test +2、专辑页错误+重试 artist_album_page_test +1）定向 10 文件复跑 `00:12 +79` 全绿 exit 0 + dart format 4 文件（1 changed）+ dart analyze 0，§13 退出条件「四态齐全」证据面扩展至曲库/发现/专辑；同轮登记 4 张 Phase 3 证据截图于复验轮被重截（mtime stat 实测 03:23:45-03:25:31，同管道同状态仅真实数据漂移：搜索 love/256、快捷卡 22/0/0；对照 04 矩阵 04:107 先例非质量劣化判 P1 登记即关闭），phase-3-report.md 勘误节 + 四处口径同步（逐张 Read 目检通过）；2026-11-12 QA 复查轮（修复验证与重截）：P0/P1 复查双关闭确认（P0：6 条四态断言在位 + 定向 10 文件 79 项全绿双实跑 QA 独立 `00:10 +79`/报告员 `00:14 +79` exit 0 + 4 改动文件 24 项双实跑逐名核对，§13「四态齐全」证据面扩展至曲库/发现/专辑；P1：勘误节 + 四处口径同步在案）+ release 重建 exit 0（bundle 03:52:19，lib/ 零改动内容等价重建）+ Xvfb :99 受影响视口（曲库/发现/专辑）重截 3 张逐张 Read 目检通过（library 03:52:44/discover 03:53:09/album 03:56:16 新增；数据全真实 专辑 20/歌手 17/最近播放 22、酷我/酷狗真实分类封面；search/playlist 03:24 未动；专辑为真实错误态+重试实拍 §9 符合）；**新增未验证如实披露**：专辑详情成功态（曲目列表）实机未取得（种子路径 5 尝试均未成功：kw not found ×2、wy 落汽水音乐不支持专辑 ×1，保留真实错误态为证）、VOICEFOX_START_SOURCE 专辑种子疑似未生效（kw→千千音乐/wy→汽水音乐徽标，仅观察未判缺陷未修）、残留 minor 4 条（第 5 张截图上轮未登记本轮补登记/勘误 mtime 对 2 张过期/not found 可读性/bottom inset 未断言）；Android/浅色/手操/golden 维持未验证 |
 | Phase 4 Player/System Media | 未开始 | phase-4-report.md | 后台、锁屏、歌词、手势 |
 | Phase 5 Local/Downloads | 未开始 | phase-5-report.md | 导入、持久化、离线播放 |
 | Phase 6 DesktopShell | 未开始 | phase-6-report.md | 1024–1920 截图 |
 | Phase 7 Final QA | 未开始 | phase-7-report.md | 全量测试、构建、质量报告 |
 
-**当前执行状态：Phase 0 已完成（2026-11-11 第二轮全量复审修订，报告 `docs/redesign/phase-0-report.md`）。Phase 1 已完成（2026-11-11 复验轮收口，报告 `docs/redesign/phase-1-report.md`）：P0-02 与全部 P1（P1-03/04/07/08/09/10/11）关闭并经测试/实机复核；P0-01 维持开放（概率性未复现未定位，ButtonPress 间歇失效同域观察在案；长会话验收前必须定位，不阻塞 Phase 2）；P1-05 同域跟进；Android 全链与真机 13 项在环境补齐且用户解除搁置前保持「未验证」状态（P1-06；禁止 APK/Gradle 构建与 AVD 创建）；本地音乐导入端到端归 Phase 5。Phase 2 已完成（2026-11-11 缺陷复验轮收口，报告 `docs/redesign/phase-2-report.md`）：MobileShell/手机首页/Mini Player 布局收口，P1-12/P1-13 关闭（QA 复查通过，当前无 P0/P1；遗留 minor 仅 P2-10/P3-08）；浅色主题实机整页走查未做（P1-09 收口仍为代码 + 测试锁定，归 Phase 7）；Mini Player 60-68dp 与底栏叠序仅 widget/golden 层证据；桌面窗口 MobileShell 运行时呈现被平台隔离设计阻止（desktop→SizedBox.shrink()）。Phase 3 已完成（2026-11-11 收口轮，报告 `docs/redesign/phase-3-report.md`）：实施轮完成搜索音源筛选按 §5.4:355 裁决改 chips 行（原下拉引 §4.3 属误引）+ 搜索历史本地持久化（容错降级、记录点=回车/历史项/Shell 种子）；曲库来源筛选 chips 从 favorites+history+localSongs 实际派生（组合规则登记于代码注释与 mobile_library_page_test）；歌单/专辑/歌手详情下拉刷新（完成判据 = page1 响应或错误落槽，preset 页不接，15s 超时兜底）+ 收藏 pending 乐观态（成功确认走 `library` 事件真实快照、失败 dispatchWithError 回滚、在途忽略再击、错误仅全局 toast 一处）；P2-10 关闭（入口卡两行卡 + vx_track_row 窄视口 hover 预留宽 + vx_empty_state 矮槽滚动两处同域修复）。收口轮：P2-03 关闭（代码 diff discover_page.dart:530-535 + 实机 linux-discover-360x800-default.png 复验 + QA 逐张复核；横滑末态未单独手势演练，由末尾 padding 语义结构性保证，如实登记）；定向 10 文件 72 项全绿（报告员实跑 `00:09 +72: All tests passed!` exit 0）+ playlist_detail_isolation_test 单独 13/13；release 构建（bundle 07:54 在位）+ Xvfb :99 实跑真实 Rust 数据源（config.toml kw/酷狗/酷我联网非 mock）四视口截图 4 张逐张 QA 通过（跨页一致 discover↔playlist、数据抽查 3 处、无白屏/overflow/遮挡/封面错图；main.dart:163 临时 minimumSize 300,400 已精确还原 git diff 空）；Android 真机项 P1-06 维持未验证（本批 linux 截图不适用）、交互式运行时手操/浅色主题（归 Phase 7）/golden 基线比对未做（如实披露）、全量门禁外执行（已知事实「门禁全绿」）。**
+**当前执行状态：Phase 0 已完成（2026-11-11 第二轮全量复审修订，报告 `docs/redesign/phase-0-report.md`）。Phase 1 已完成（2026-11-11 复验轮收口，报告 `docs/redesign/phase-1-report.md`）：P0-02 与全部 P1（P1-03/04/07/08/09/10/11）关闭并经测试/实机复核；P0-01 维持开放（概率性未复现未定位，ButtonPress 间歇失效同域观察在案；长会话验收前必须定位，不阻塞 Phase 2）；P1-05 同域跟进；Android 全链与真机 13 项在环境补齐且用户解除搁置前保持「未验证」状态（P1-06；禁止 APK/Gradle 构建与 AVD 创建）；本地音乐导入端到端归 Phase 5。Phase 2 已完成（2026-11-11 缺陷复验轮收口，报告 `docs/redesign/phase-2-report.md`）：MobileShell/手机首页/Mini Player 布局收口，P1-12/P1-13 关闭（QA 复查通过，当前无 P0/P1；遗留 minor 仅 P2-10/P3-08）；浅色主题实机整页走查未做（P1-09 收口仍为代码 + 测试锁定，归 Phase 7）；Mini Player 60-68dp 与底栏叠序仅 widget/golden 层证据；桌面窗口 MobileShell 运行时呈现被平台隔离设计阻止（desktop→SizedBox.shrink()）。Phase 3 已完成（2026-11-11 收口轮，报告 `docs/redesign/phase-3-report.md`）：实施轮完成搜索音源筛选按 §5.4:355 裁决改 chips 行（原下拉引 §4.3 属误引）+ 搜索历史本地持久化（容错降级、记录点=回车/历史项/Shell 种子）；曲库来源筛选 chips 从 favorites+history+localSongs 实际派生（组合规则登记于代码注释与 mobile_library_page_test）；歌单/专辑/歌手详情下拉刷新（完成判据 = page1 响应或错误落槽，preset 页不接，15s 超时兜底）+ 收藏 pending 乐观态（成功确认走 `library` 事件真实快照、失败 dispatchWithError 回滚、在途忽略再击、错误仅全局 toast 一处）；P2-10 关闭（入口卡两行卡 + vx_track_row 窄视口 hover 预留宽 + vx_empty_state 矮槽滚动两处同域修复）。收口轮：P2-03 关闭（代码 diff discover_page.dart:530-535 + 实机 linux-discover-360x800-default.png 复验 + QA 逐张复核；横滑末态未单独手势演练，由末尾 padding 语义结构性保证，如实登记）；定向 10 文件 72 项全绿（报告员实跑 `00:09 +72: All tests passed!` exit 0）+ playlist_detail_isolation_test 单独 13/13；release 构建（bundle 07:54 在位）+ Xvfb :99 实跑真实 Rust 数据源（config.toml kw/酷狗/酷我联网非 mock）四视口截图 4 张逐张 QA 通过（跨页一致 discover↔playlist、数据抽查 3 处、无白屏/overflow/遮挡/封面错图；main.dart:163 临时 minimumSize 300,400 已精确还原 git diff 空）；Android 真机项 P1-06 维持未验证（本批 linux 截图不适用）、交互式运行时手操/浅色主题（归 Phase 7）/golden 基线比对未做（如实披露）、全量门禁外执行（已知事实「门禁全绿」）。2026-11-12 QA 复查轮（修复验证与重截）：QA1 轮 P0/P1 登记复查双关闭（P0：6 条四态断言在位 + 定向 10 文件 79 项全绿双实跑 QA 独立 `00:10 +79`/报告员 `00:14 +79` exit 0 + 4 改动文件 24 项双实跑逐名核对，§13「四态齐全」证据面扩展至曲库/发现/专辑；P1：勘误节 + 四处口径同步在案）；release 重建 exit 0（bundle 03:52:19，lib/ 零改动内容等价重建）+ Xvfb :99 受影响视口（曲库/发现/专辑）重截 3 张逐张目检通过（专辑为真实错误态+重试实拍 §9 符合，search/playlist 未动）；新增未验证如实披露：专辑详情成功态实机未取得（种子路径 kw not found ×2/wy 落汽水音乐不支持专辑 ×1，保留真实错误态为证）、VOICEFOX_START_SOURCE 专辑种子疑似未生效（仅观察未判缺陷未修）、残留 minor 4 条（第 5 张截图未登记已补登记/勘误 mtime 对 2 张过期/not found 可读性/bottom inset 未断言）。**

diff --git a/docs/redesign/04-defect-matrix.md b/docs/redesign/04-defect-matrix.md
@@ -7,6 +7,9 @@
 - 实机环境（本轮）：**Xvfb :2（1920x1080x24，无 WM）**，release 构建（`flutter build linux --release` exit 0），XTest 注入交互；另在 :1（niri 26.04 + xwayland-satellite）做窗口行为观察。第一轮会话（niri 全屏 1656x817）的证据仅标注引用，不冒充本轮复现。
 - 更新（2026-11-11 Phase 3 收口轮）：P2-03 关闭（代码+测试层修复后经实机复验，见 P2 节）。收口证据（报告员实跑）：定向 10 文件 72 项全绿（`flutter test` 10 文件，`00:09 +72: All tests passed!` exit 0）+ playlist_detail_isolation_test 单独 13/13；`flutter build linux --release` exit 0（bundle 07:54 在位）+ Xvfb :99 实跑真实 Rust 数据源（~/.config/voicefox/config.toml，kw/酷狗/酷我真实联网非 mock），4 视口截图（library/search/playlist 390x844 + discover 360x800，`import -window`+magick 精确视口）逐张 QA 通过：无白屏/overflow/遮挡/封面错图；跨页一致（discover 古风戏腔 104首·酷我 ↔ playlist 详情同封面同来源，返回条全标题完整）；数据抽查 3 处一致（playlist_detail_page.dart:234-258 标题/计数/总时长绑定、library_page.dart:250-264 计数按源过滤、search_page.dart:485,495-519 计数与四态）；library 空态 Icons.music_off_outlined 正常渲染且文案逐字一致（song_table_view.dart:181 / library_page.dart:569）；search「网易云」chip 右缘裁切 = 横向滚动 ListView 设计行为（search_page.dart:443-444）；main.dart:163 minimumSize 临时放宽已精确还原（git diff 空）。阶段报告：`docs/redesign/phase-3-report.md`。遗留：P0-01 开放、P1-06 Android 真机零覆盖维持、交互式运行时手操/浅色主题（归 Phase 7）/golden 基线比对未做（如实登记）。Rust 零改动。
 - 更新（2026-11-12 全屏播放页封面带修复轮，Phase 2 追加批次）：**P2-12 登记并关闭**（全屏播放页封面落 §5.7:446-447 280-340dp 自适应带，见 P2 节）、**P2-06 关闭**（封面横滑切歌 `_SwipeableCover`，速度阈值 500px/s + 方向提示层，只绑封面区避开 LiveSeekRow 横拖与屏幕缘返回手势 §5.7:459；真机边缘手势冲突验证 §5.7:463 维持未验证）；**P2-09 补记**：全屏播放页队列挂载形态已落 §5.7:452 底部 sheet（DragHandle 下滑/点遮罩关闭，queue_interaction_test 8 用例），拖拽排序/队内跳播维持开放（后端无 FfiCommand，如实禁用）。同批：歌词点击门槛（§5.7:461 无时间戳不挂 seek 并如实说明，lyrics_panel.dart）+ audio_session 中断处理与通知 artUri 守卫（voicefox_audio_handler.dart ±34；flutter/test 全目录 grep `VoicefoxAudioHandler|configureAudioService|interruption|artUri` 0 命中，无专项单测，真机音频输出/通知未验证，如实登记）。报告员实跑（本轮）：定向 4 文件 **39 项全绿**（`flutter test test/mobile_now_playing_layout_test.dart test/mobile_now_playing_test.dart test/mini_player_interaction_test.dart test/queue_interaction_test.dart --reporter compact`，`00:08 +39: All tests passed!` exit 0）+ 3 文件 --no-pub **32 项全绿**（`00:08 +32` exit 0）；golden 重截 fluttertest-nowplaying-{360x800,390x844,430x932}-dark-playing.png（临时测试用后即删，报告员 `git status --porcelain` 实查零残留），逐张目检 + magick 像素实测封面 **320/340/340** 与公式逐视口一致；上轮 library/emptyhero 复截件（61983B/100843B，01:53）复核维持关闭；release bundle 未重建（golden/测试同源编译，平台隔离 mobile_shell.dart:107-119 下桌面证据面不变，上轮 bundle 结论不失效）；Android 真机/浅色主题/全屏页桌面窗口呈现维持未验证。详见 `docs/redesign/phase-2-report.md` 追加批次节。Rust 零改动。
+- 更新（2026-11-12 Phase 3 复验轮，验证收尾）：定向 10 文件基线复跑 72 项全绿（flutter/ 下 /home/emo/flutter/bin/flutter 3.47.9，`00:11 +72: All tests passed!` exit 0）；`search_page_test.dart` 新增 1 用例「防抖窗口紧界：250ms 未派发、300ms 恰好一次、350ms 无二次派发」（fake-time 虚拟时钟，注释锁定 search_page.dart:60 `debounceMs` 库内私有常量的硬编码耦合，不构成实机毫秒计时）后复跑 **73 项全绿**（`00:11 +73` exit 0）+ expanded 单跑 search_page_test 逐名核对（+14，两条防抖用例均在册）；dart format 1 文件规范化 + dart analyze 0（`No issues found!`）；phase-3-report.md 未做项口径同步改写（fake-time 锁常量 ≠ 实机毫秒计时，后者归 Phase 7 手操维持未做）。Rust 零改动；Android 真机（P1-06 维持）/浅色主题/交互式手操/golden 基线比对维持未验证如实登记。
+- 更新（2026-11-12 Phase3-QA1 修复轮）：**P0 四态证据缺口补齐**（QA 视觉轮按本轮证据规则「测试缺失或未实跑 = P0」登记：曲库本地收藏空态「还没有收藏」test/ 全目录 grep 0 命中、红心镜像载入/错误+重试（library_page.dart:573-584）零断言、发现页骨架与「歌单加载失败」（discover_page.dart:496-518）零断言、专辑页错误态零断言）：补 6 条 widget 断言，曲库空态（mobile_library_page_test +1）、红心镜像载入态/错误态+重试（push_and_favorites_test +2，重试断言回到载入态）、发现页载入骨架/歌单错误+重试（discover_page_test +2，重试断言重新派发 PlaylistList）、专辑页错误+重试（artist_album_page_test +1）；定向 10 文件复跑 **79 项全绿**（`00:12 +79: All tests passed!` exit 0）+ dart format 4 文件（1 changed）+ dart analyze 0（`No issues found!`）；§13 Phase 3 退出条件「空/错/载/成功四态齐全」证据面由 search 四态用例扩展至曲库/发现/专辑（对照成立部分维持：search_pagination_test.dart:364、playlist_detail_page_test.dart:53/:81、playlist_detail_isolation_test.dart:409、custom_playlist_page_test.dart:108）。**同轮登记 4 张 Phase 3 证据截图重截**（QA 视觉轮发现复验轮重截未登记）：linux-{library-390x844-songs,search-390x844-results,playlist-390x844-detail,discover-360x800-default}.png mtime `stat` 实测 2026-11-12 03:23:45-03:25:31（+0800），归属复验轮批次，同管道同状态仅真实数据漂移（搜索 love/256 结果、快捷卡 22/0/0）；对照本矩阵 04:107 先例（无声替换判 P0）本案非证据质量劣化，判 P1 登记即关闭；phase-3-report.md 逐张 Read 目检复核（无白屏/overflow/遮挡，104 首·酷我跨页一致仍成立）并同步四处口径（勘误节 + 设备视口节 + 截图路径节 + 视觉 QA 第 5 条）。Rust 零改动。
+- 更新（2026-11-12 Phase3-QA 复查轮，修复验证与重截）：QA1 轮两条登记均经本轮复查确认关闭。**P0（四态证据缺口）关闭**：6 条 widget 断言全部在位（报告员 `git diff` 逐名核对：曲库本地收藏空态「还没有收藏」、红心镜像载入态/错误态+重试回载入态、发现页载入骨架/歌单错误+重试重新派发 PlaylistList、专辑页错误+重试回「加载中…」），定向 10 文件 79 项全绿双实跑（QA 独立 `00:10 +79: All tests passed!` exit 0，ask 记录；报告员复跑 `00:14 +79` exit 0；4 改动文件 24 项双实跑：实施者 `00:02 +24`、报告员 `00:05 +24`），§13「四态齐全」证据面扩展至曲库/发现/专辑；**P1（4 张证据截图重截未登记）关闭**：phase-3-report.md 勘误节登记（mtime/归属/非劣化判定）+ 四处口径同步（love/256、快捷卡 22/0/0）+ 本矩阵与指南 §17 同步。同轮：release 重建 exit 0（`✓ Built bundle/voicefox_flutter`，03:52:19 在位；lib/ 零改动内容等价重建，`git diff HEAD -- flutter/lib` 实测空）+ Xvfb :99 受影响视口（曲库/发现/专辑，对应四个被改测试文件的页面）重截 3 张（library 03:52:44/discover 03:53:09/album 03:56:16 新增；数据全真实：专辑 20/歌手 17/最近播放 22 首、酷我/酷狗真实分类与封面；search/playlist 03:24 版本未动）逐张 Read 目检通过：专辑详情为真实错误态+重试实拍（九点九/Aling贝多/千千音乐真实封面，操作钮明确禁用，§9 符合）。**登记未验证**：专辑详情成功态（曲目列表渲染）实机未取得，种子路径 5 次尝试均未成功（登记在案返回：kw 源真实「加载失败 not found」×2、wy 落汽水音乐「该音源不支持专辑」×1），疑真实音源数据缺口或种子源映射问题，保留真实错误态+重试为证（即新增断言对象）；VOICEFOX_START_SOURCE 专辑种子疑似未生效（SOURCE=kw→千千音乐徽标、SOURCE=wy→汽水音乐徽标），仅登记观察未判缺陷未修。残留 minor 4 条：第 5 张专辑截图上轮未登记（报告本轮补登记）且「仅此 4 文件」口径失实（已同步）、QA1 勘误 mtime 对 library/discover 2 张过期（本轮重截所致）、专辑错误态直出原始「not found」串可读性、bottom inset 未断言。进程清理复核（报告员 pgrep）：无 :99/voicefox 残留（仅存并行会话 Xvfb :3 非本轮产物）。Rust 零改动。
 - 评级口径（§12.7）：P0 数据错乱/播放不可用/崩溃；P1 核心操作无法完成/封面普遍缺失/关键页面不可用；P2 视觉与次要功能缺口；P3 可选增强/文档债。
 - 基线事实与门禁数据：`docs/redesign/00-baseline.md`（§3 门禁、§9 播放链、§10 封面链）。
 
